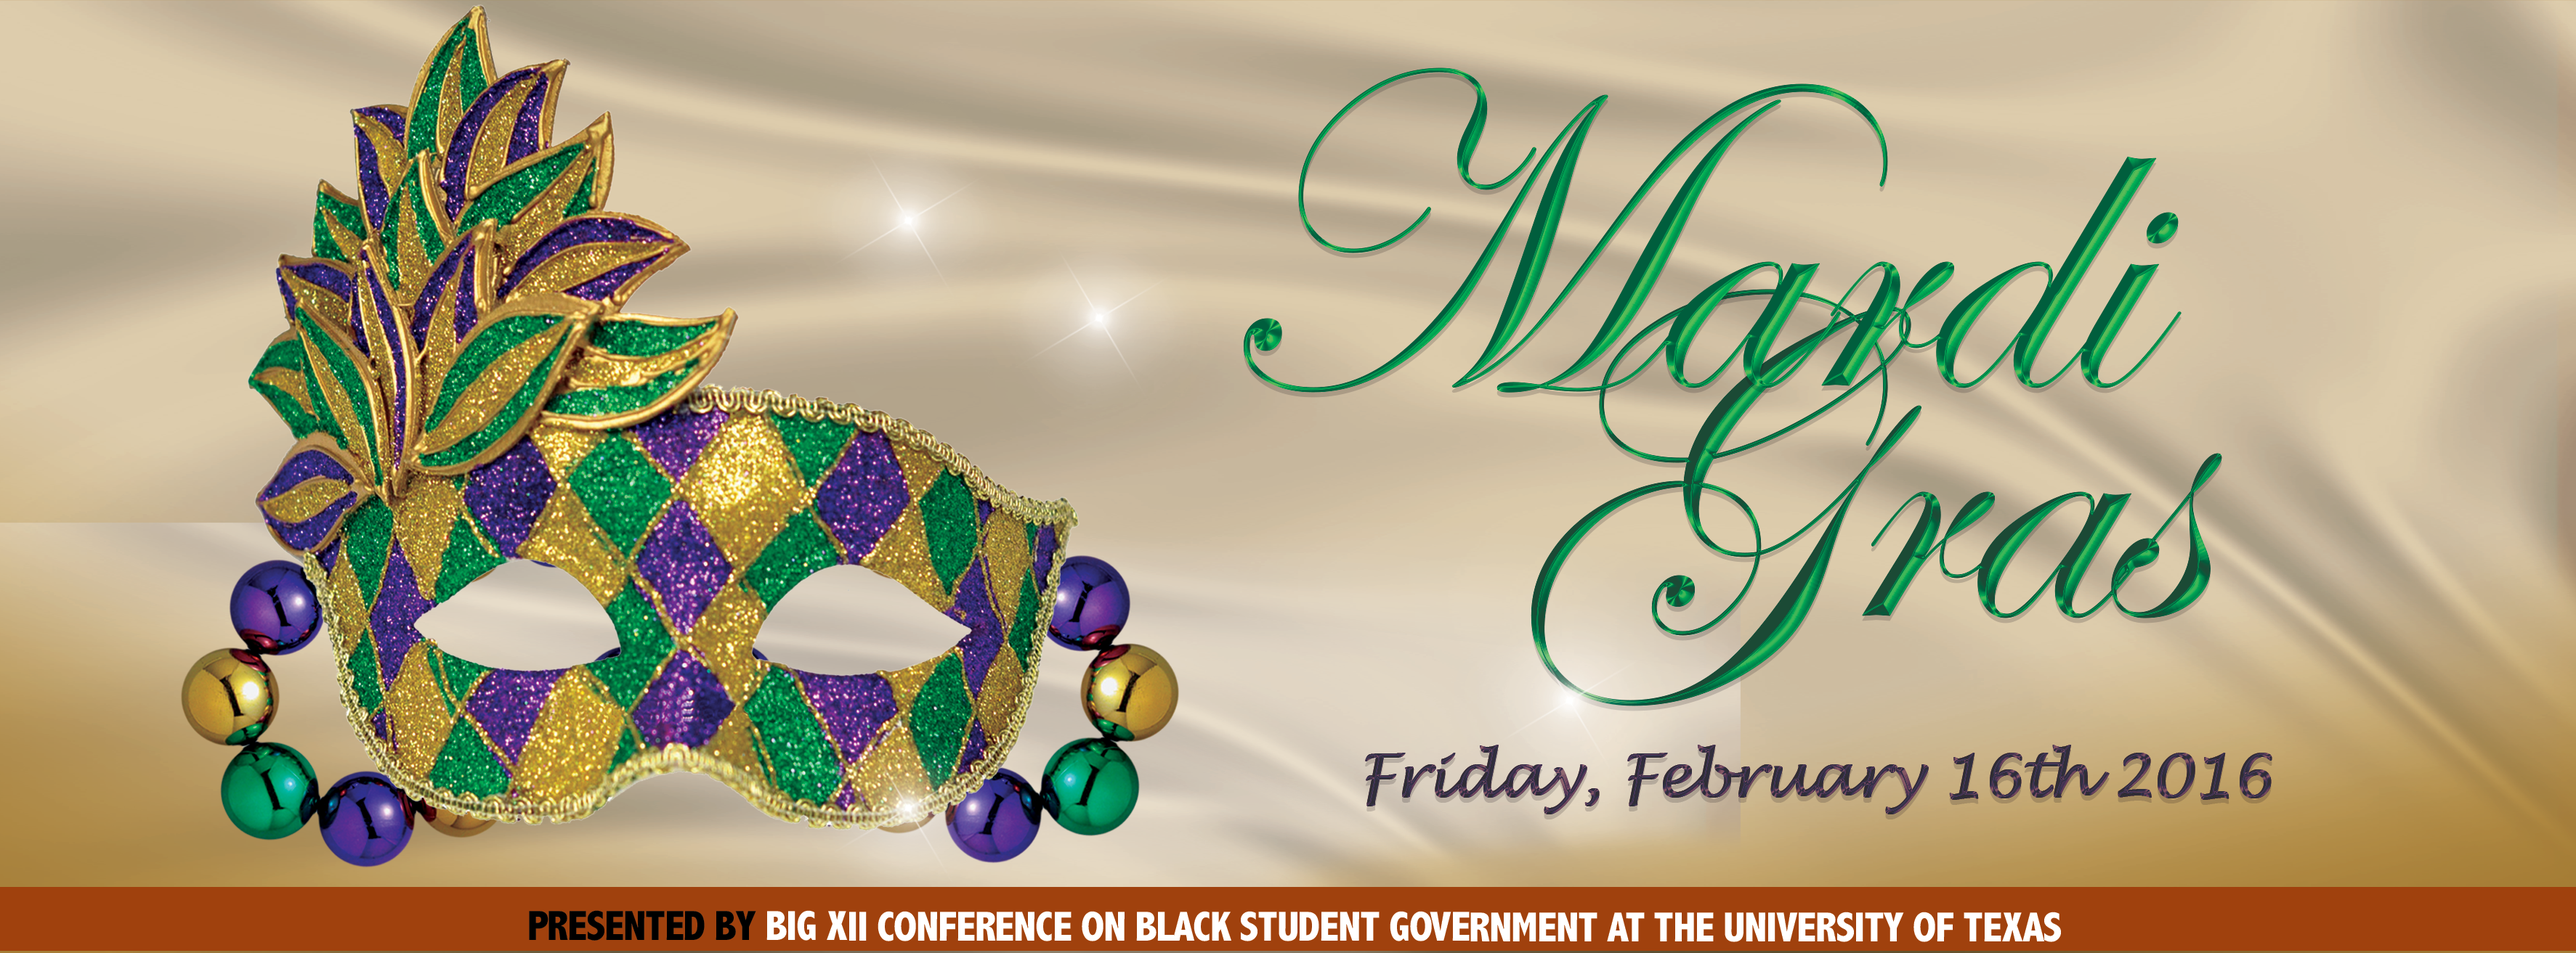
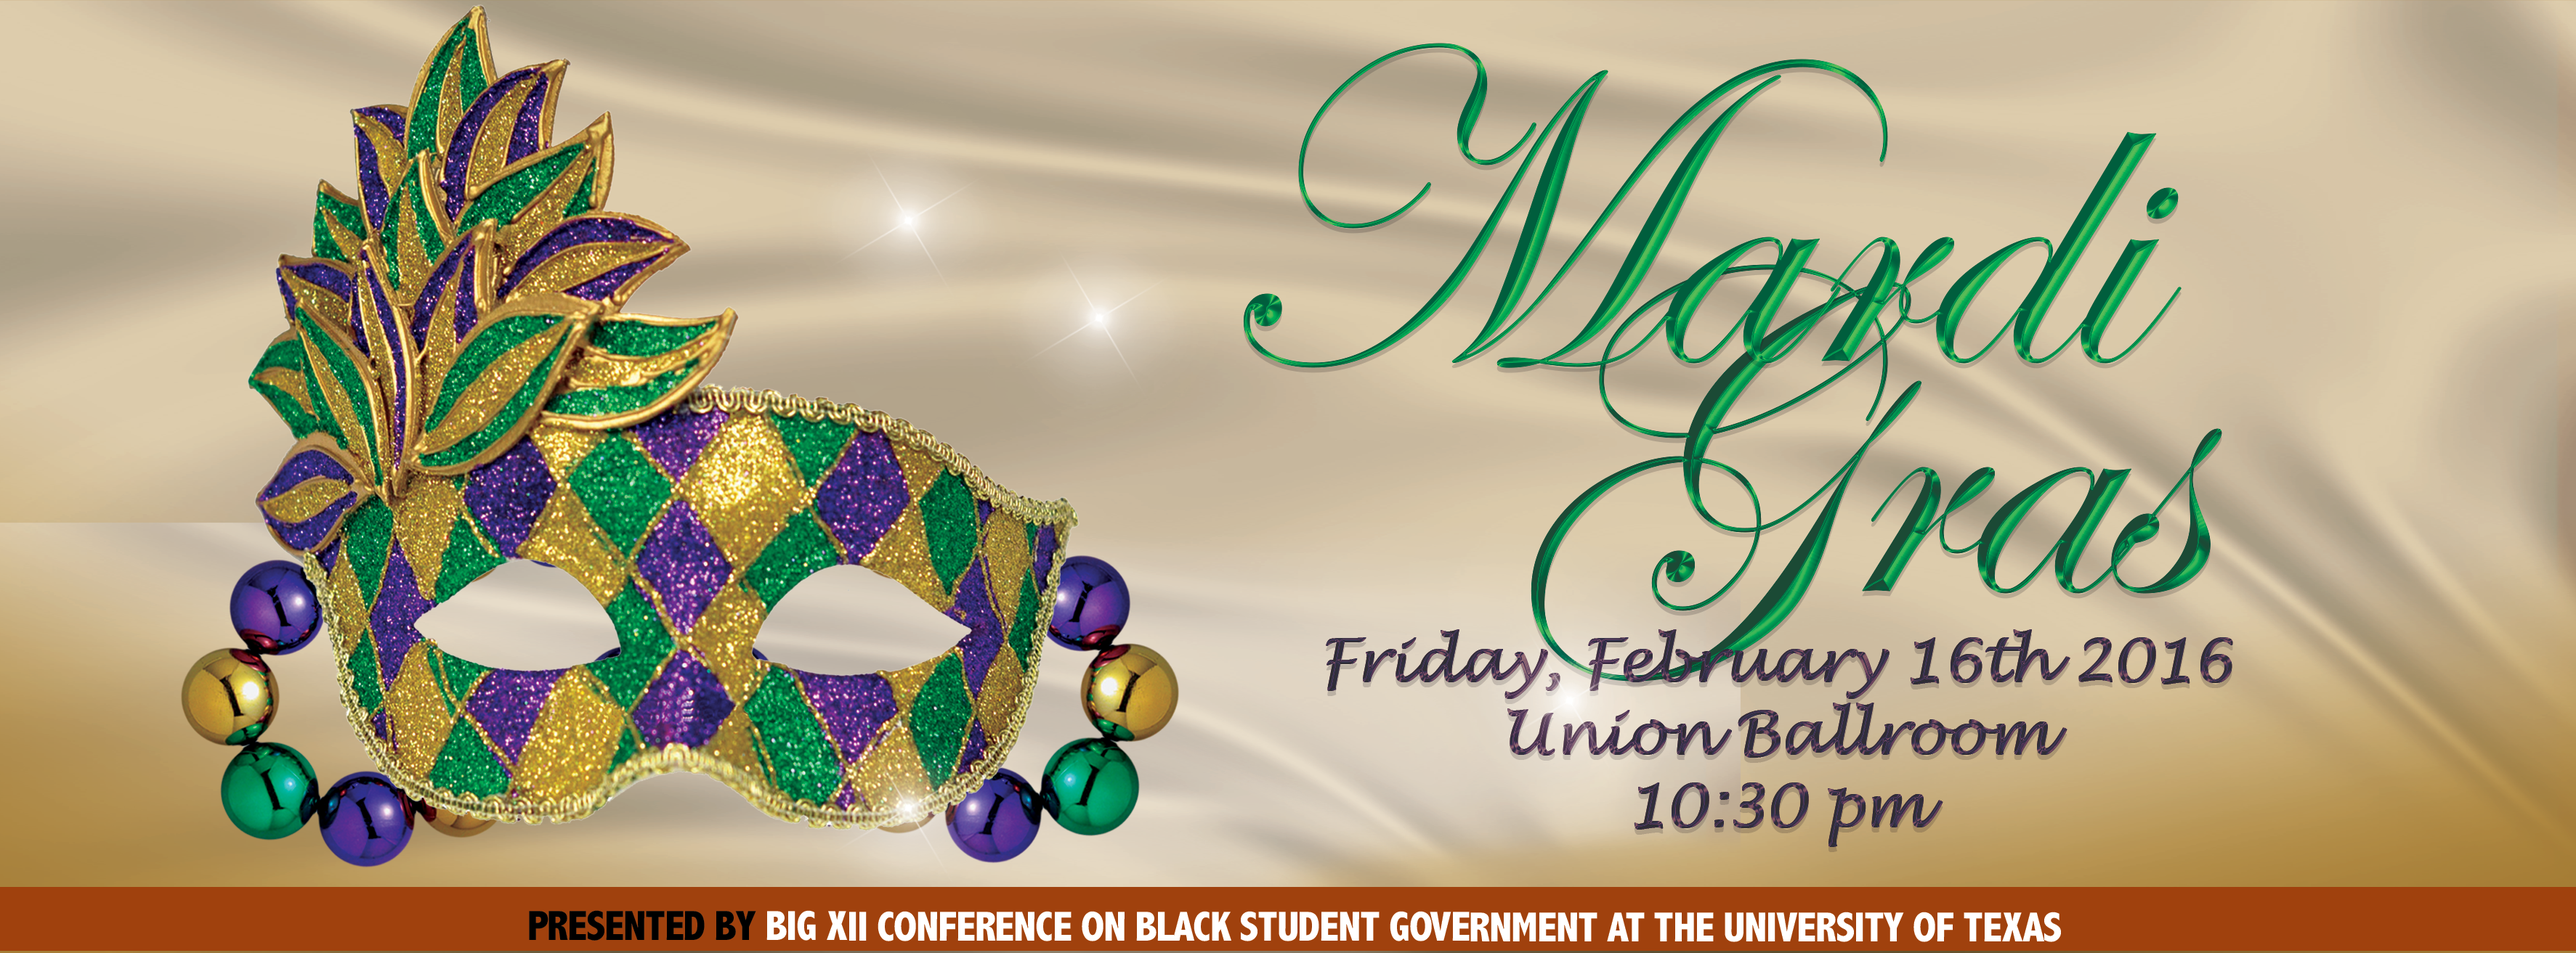
add new event flyers

Changed region(s): [[0.4653, 0.0312, 0.8996, 0.8743]]

diff --git a/big-xxii-conference/templates/schedule_page.html b/big-xxii-conference/templates/schedule_page.html
@@ -9,6 +9,7 @@
 			<br/>9:00 p.m. - 11:00 p.m. Movie Night/Social Activity
 			</p>
 		</div>
+		<a href="images/Roll Call.png" data-lightbox="Roll Call" data-title="Roll Call"><img class="event-image padding-bottom" data-lightbox="events" src="images/Roll Call.png"></a>
 		<div class="padding-around">
 			<h3>Friday, February 17, 2017</h3>
 			<p class="monteserrat">
@@ -23,6 +24,7 @@
 			<br/>9:00 p.m. - 11:00 p.m. Karaoke Night
 			</p>
 		</div>
+		<a href="images/Gospel.png" data-lightbox="Gospel" data-title="Gospel"><img class="event-image padding-bottom" data-lightbox="events" src="images/Gospel.png"></a>
 		<a href="images/Mardi Gras.png" data-lightbox="Mardi Gras" data-title="Mardi Gras"><img class="event-image padding-bottom" data-lightbox="events" src="images/Mardi Gras.png"></a>
 		<div class="padding-around">
 			<h3>Saturday, February 18, 2017</h3>
